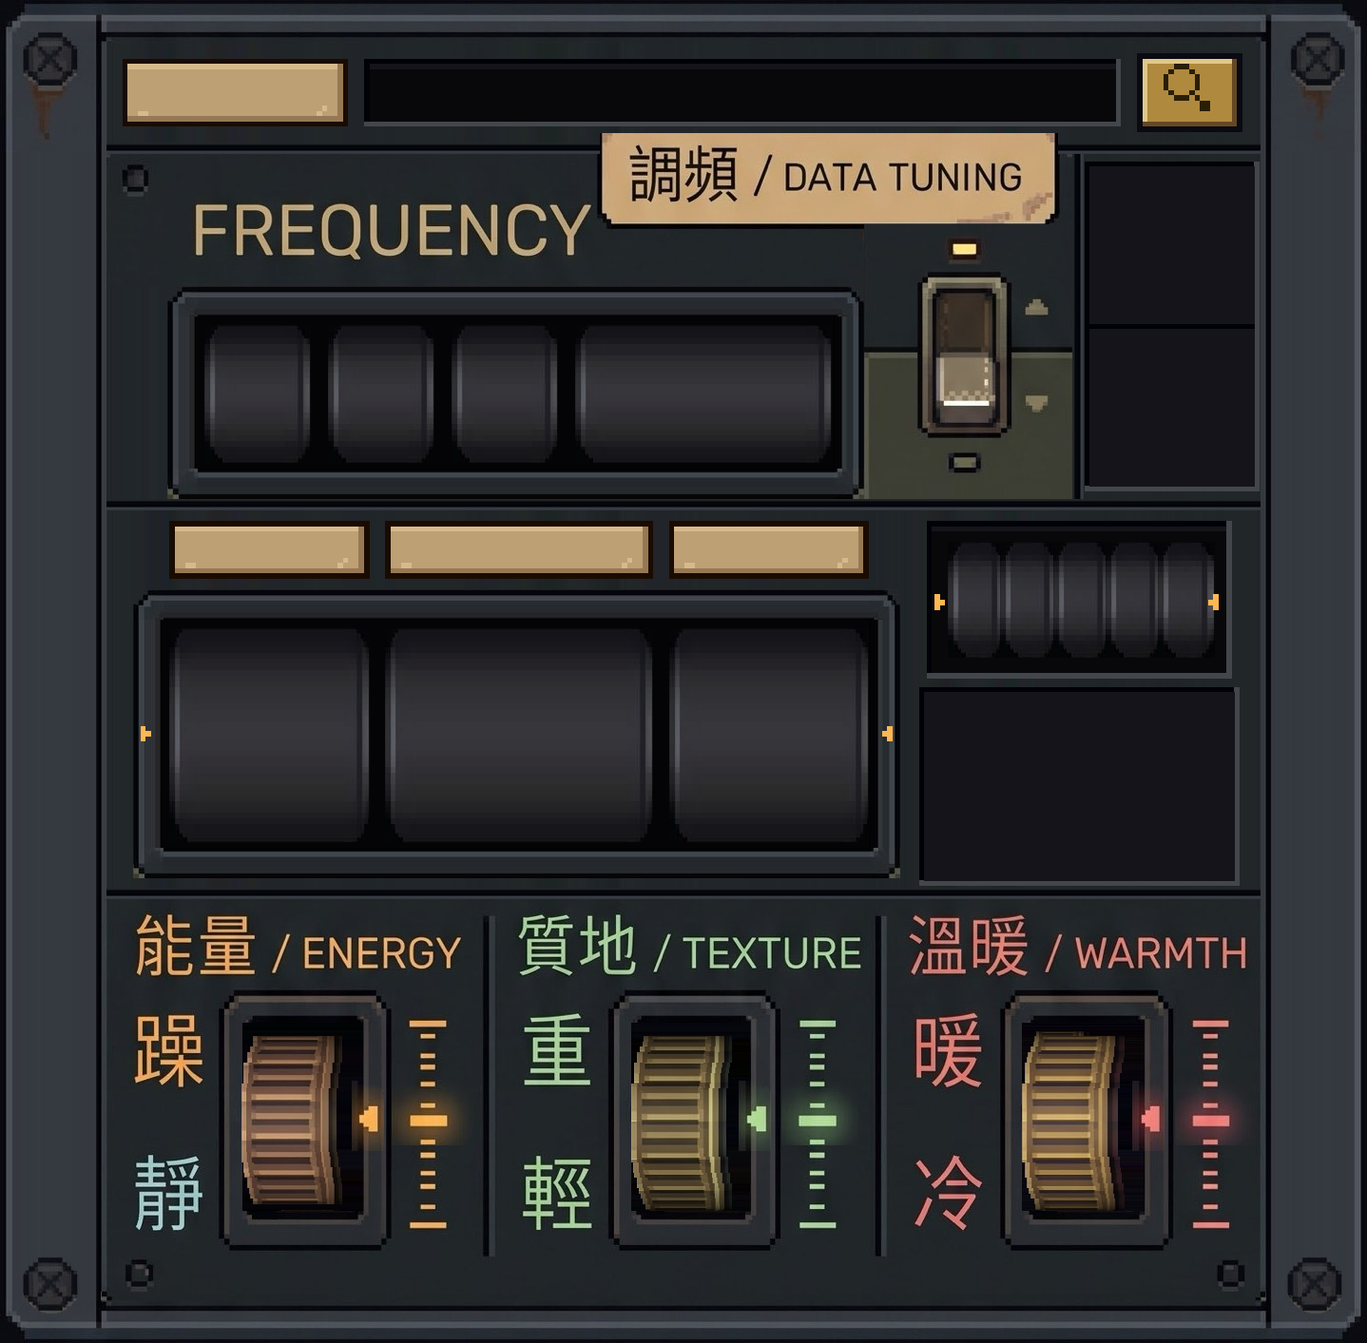
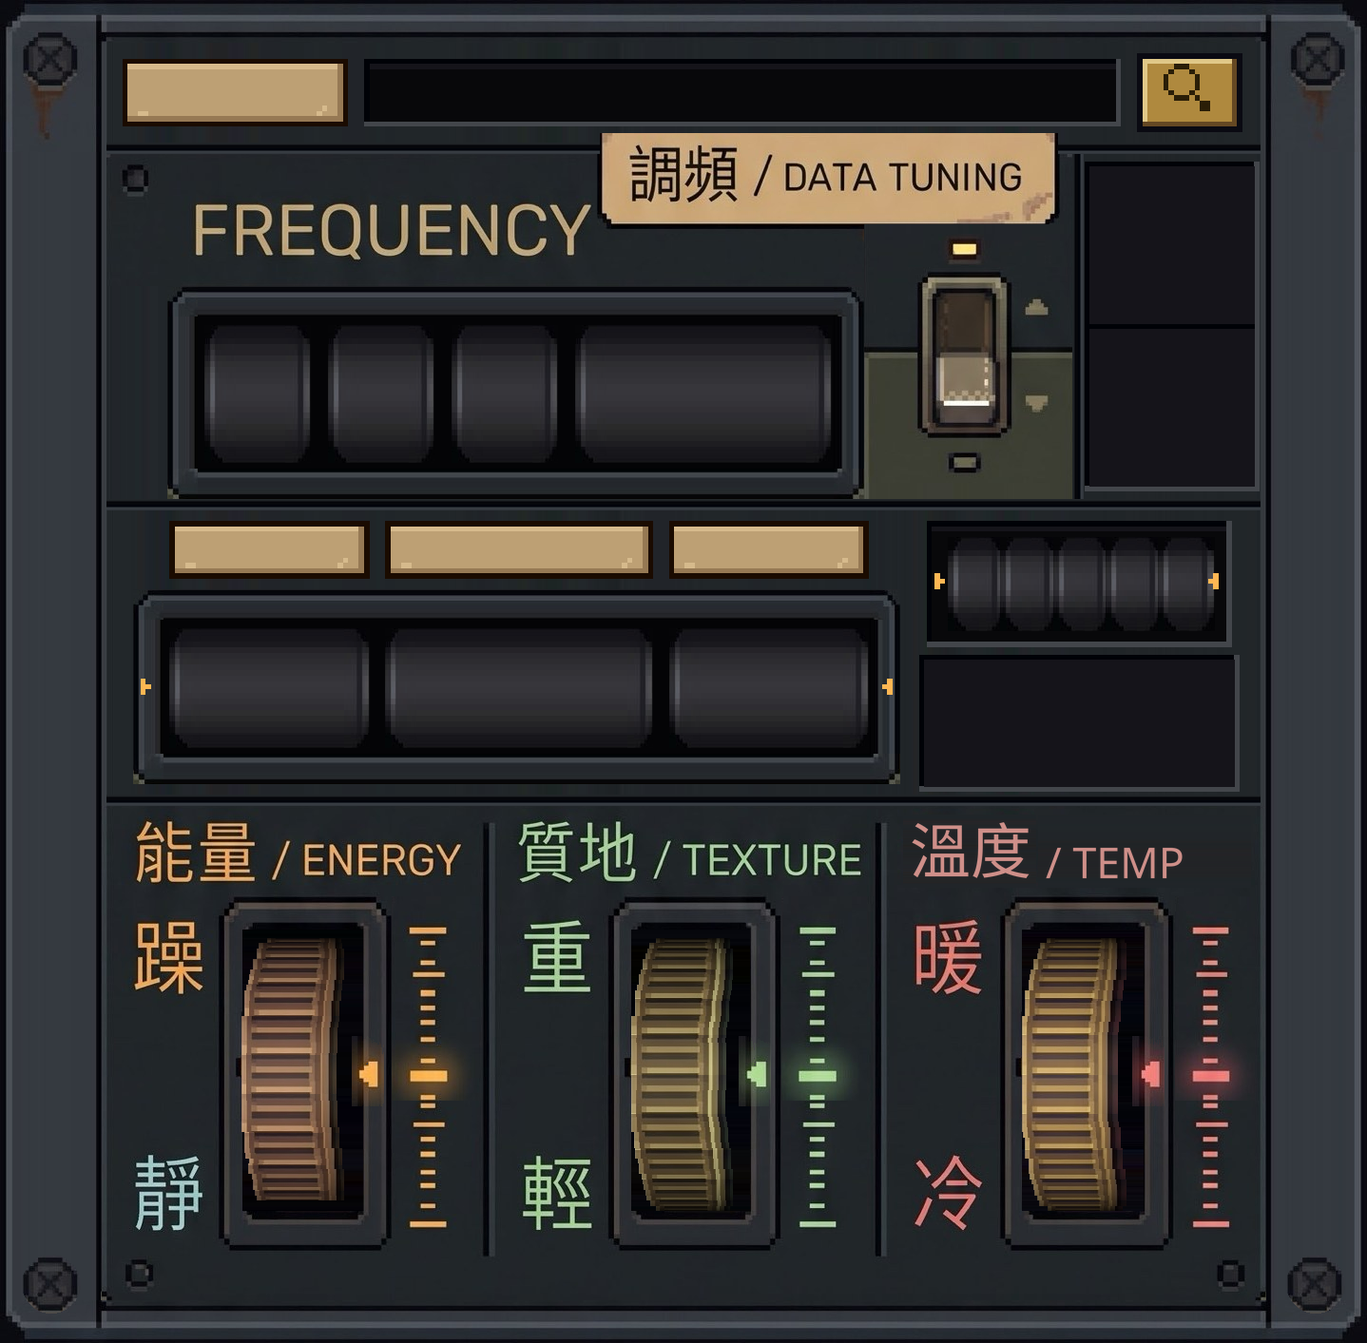
頻率光譜：下排轉輪往上加高、篩選排縮小、溫暖改溫度 / TEMP（v72）
Claude-Session: https://claude.ai/code/session_01UejPgVKn9qYya3Wx6LrffZ

Changed region(s): [[0.0918, 0.5294, 0.9179, 0.903], [0.6732, 0.436, 0.9179, 0.5294]]

diff --git a/dip-tune.js b/dip-tune.js
@@ -101,7 +101,7 @@
 
   // ── 畫面 ──────────────────────────────────────────────────────────
   // 面板圖片與輪廓表網址帶版本：正式站圖片快取 4 小時，換圖不換網址的話手機會拿舊圖套新版面（2026-11-06 店主實機：骰子跑位）。換任何 tune/ 圖就把這個數字加一
-  const AV = 71;
+  const AV = 72;
   const CSS = `
 .tune-app{--pix:'DotGothic16','Space Mono',monospace;position:relative;display:grid;grid-template-columns:1fr;grid-template-rows:minmax(200px,1fr) auto;width:100%;max-width:720px;margin:0 auto;height:var(--tvh,100dvh);padding:env(safe-area-inset-top,0px) env(safe-area-inset-right,0px) env(safe-area-inset-bottom,0px) env(safe-area-inset-left,0px);background:#0b0c10;color:#e9e2c8;font-family:var(--pix);font-size:11px;letter-spacing:.04em;overflow:hidden}
 /* 主畫面 App（standalone）：iOS 在狀態列下緣多一條毛玻璃，蓋住讀數與正在播放卡；只有這個模式再往下讓一截，瀏覽器不受影響 */
@@ -254,33 +254,33 @@
 .tune-fled{top:44.232%;width:2.364%;height:1.557%;background:url(tune/led-off.png?v=${AV}) 0 0/100% 100% no-repeat;image-rendering:pixelated;pointer-events:none}
 .tune-fled.on{background-image:url(tune/led-on.png?v=${AV})}
 .tune-fled[data-k="genre"]{left:18.498%}.tune-fled[data-k="grade"]{left:36.787%}.tune-fled[data-k="tier"]{left:55.076%}
-.tune-flt{top:38.783%;height:26.61%;cursor:ns-resize;touch-action:none;outline:0}
+.tune-flt{top:38.783%;height:19.604%;cursor:ns-resize;touch-action:none;outline:0}
 .tune-flt[data-k="genre"]{left:12.378%;width:14.673%}.tune-flt[data-k="grade"]{left:28.164%;width:19.611%}.tune-flt[data-k="tier"]{left:48.957%;width:14.604%}
 .tune-flt:focus-visible .fdrum{outline:2px solid #ffd166;outline-offset:-2px}
-.tune-flt .fdrum{position:absolute;left:0;right:0;top:29.8%;height:59.84%;overflow:hidden;pointer-events:none}
-.tune-flt .fdrum::after{content:"";position:absolute;inset:0;background:url(tune/drum-shade-225.png?v=${AV}) 0 0/100% 100% no-repeat;image-rendering:pixelated}
+.tune-flt .fdrum{position:absolute;left:0;right:0;top:40.793%;height:45.486%;overflow:hidden;pointer-events:none}
+.tune-flt .fdrum::after{content:"";position:absolute;inset:0;background:url(tune/drum-shade-126.png?v=${AV}) 0 0/100% 100% no-repeat;image-rendering:pixelated}
 .tune-flt .strip{will-change:transform}
 .tune-flt .strip.anim{transition:transform .22s cubic-bezier(.25,.9,.3,1.08)}
-.tune-flt span{display:block;height:5.563cqw;line-height:5.563cqw;text-align:center;font-family:var(--pix);font-size:3.27cqw;color:#8d9478;white-space:nowrap}
+.tune-flt span{display:block;height:4.8cqw;line-height:4.8cqw;text-align:center;font-family:var(--pix);font-size:3.27cqw;color:#8d9478;white-space:nowrap}
 .tune-flt svg.st{display:inline-block;width:.78em;height:.78em;margin:0 .04em;vertical-align:-.04em}
 .tune-flt span .sr{position:absolute;width:1px;height:1px;overflow:hidden;clip:rect(0 0 0 0)}
 .tune-flt span.sel{color:#ffd34d}.tune-flt span.sel.all{color:#e9e2c8}
 /* 符合張數：水表式五顆數字滾輪（2026-11-07 店主：不要中文，數字切換時滾輪快速轉到下一個數字）；滾筒與指標畫在 panel-all.png 上 */
-.tune-lcd{left:68.15%;top:39.207%;width:21.558%;height:10.899%;pointer-events:none}
-.tune-odo{position:absolute;top:10.395%;height:79.218%;width:16.128%;overflow:hidden}
+.tune-lcd{left:68.15%;top:39.207%;width:21.558%;height:8.563%;pointer-events:none}
+.tune-odo{position:absolute;top:9.097%;height:81.817%;width:16.128%;overflow:hidden}
 .tune-odo:nth-child(1){left:5.483%}.tune-odo:nth-child(2){left:23.226%}.tune-odo:nth-child(3){left:41.29%;width:15.81%}.tune-odo:nth-child(4){left:59.031%}.tune-odo:nth-child(5){left:76.774%}
-.tune-odo::after{content:"";position:absolute;inset:0;background:url(tune/drum-shade-122.png?v=${AV}) 0 0/100% 100% no-repeat;image-rendering:pixelated}
+.tune-odo::after{content:"";position:absolute;inset:0;background:url(tune/drum-shade-99.png?v=${AV}) 0 0/100% 100% no-repeat;image-rendering:pixelated}
 .tune-odo .strip{will-change:transform}
-.tune-odo span{display:block;height:5.4cqw;line-height:5.4cqw;text-align:center;font-family:var(--pix);font-size:4.6cqw;color:#e9e2c8}
+.tune-odo span{display:block;height:5.2cqw;line-height:5.2cqw;text-align:center;font-family:var(--pix);font-size:4.4cqw;color:#e9e2c8}
 .tune-lcd.zero span{color:#ff7a6b}
-.tune-all{left:67.803%;top:51.734%;width:22.323%;height:13.659%;background-image:url(tune/key-all.png?v=${AV});color:#8d9478;font-size:3.6cqw;line-height:1.15;text-align:center;padding-top:.6cqw}
+.tune-all{left:67.803%;top:49.328%;width:22.323%;height:9.059%;background-image:url(tune/key-all.png?v=${AV});color:#8d9478;font-size:3.6cqw;line-height:1.15;text-align:center;padding-top:.6cqw}
 .tune-all small{display:block;font-size:2.2cqw;letter-spacing:.08em}
 .tune-all.on{color:#e9e2c8}
-/* 轉輪：畫面縮成一半高，點擊範圍放大到整欄（含名牌與刻度），手指好抓 */
-.tune-wheel{background:transparent;overflow:hidden;top:74.452%;height:18.967%;pointer-events:none}
+/* 轉輪：點擊範圍放大到整欄（含名牌與刻度），手指好抓。2026-11-07 店主：輪子往上擴充、篩選排縮小（輪子 190 → 288 列） */
+.tune-wheel{background:transparent;overflow:hidden;top:67.516%;height:25.902%;pointer-events:none}
 .tune-wheel canvas{display:block;width:100%;height:100%;image-rendering:pixelated}
 .tune-wheel[data-axis="x"]{left:15.577%;width:12.656%}.tune-wheel[data-axis="y"]{left:44.784%;width:12.239%}.tune-wheel[data-axis="z"]{left:73.713%;width:12.239%}
-.tune-wcol{top:73.319%;height:20.807%;cursor:ns-resize;touch-action:none;background:transparent}
+.tune-wcol{top:66.171%;height:27.955%;cursor:ns-resize;touch-action:none;background:transparent}
 .tune-wcol[data-axis="x"]{left:7.789%;width:27.538%}.tune-wcol[data-axis="y"]{left:36.231%;width:27.747%}.tune-wcol[data-axis="z"]{left:64.882%;width:27.33%}
 .tune-wcol:focus-visible{outline:2px solid #ffd166;outline-offset:-2px}
 /* 搜尋列：名牌、液晶、黃銅鍵畫在面板上，文字、輸入框、按鍵疊 HTML */
@@ -314,7 +314,7 @@ html.tune-inapp-lock body{padding-top:120px}
 <div class="tune-app" id="tuneApp">
   <div class="tune-stage" id="tuneStage"><canvas id="tuneGl"></canvas>
     <div class="tune-hud">
-      <div class="tune-readout" id="tuneReadout" title="能量 / 質地 / 色溫"><span style="--c:${AX.x}"><b>-.--</b></span><span style="--c:${AX.y}"><b>-.--</b></span><span style="--c:${AX.z}"><b>-.--</b></span></div>
+      <div class="tune-readout" id="tuneReadout" title="能量 / 質地 / 溫度"><span style="--c:${AX.x}"><b>-.--</b></span><span style="--c:${AX.y}"><b>-.--</b></span><span style="--c:${AX.z}"><b>-.--</b></span></div>
       <button class="tune-spk" id="tuneSpk" type="button" aria-pressed="true" aria-label="聲音">${SPK}</button>
       <button class="tune-spk tune-hbtn" id="tuneHoloBtn" type="button" aria-pressed="true" aria-label="懸浮封面" title="懸浮封面">${HOLO}</button>
       <button class="tune-back" id="tuneBack" type="button" aria-label="回找一張來聽" title="找一張來聽">↩</button>
@@ -356,7 +356,7 @@ html.tune-inapp-lock body{padding-top:120px}
     <div class="abs tune-wheel" data-axis="z"><canvas></canvas></div>
     <div class="abs tune-wcol" data-axis="x" role="slider" tabindex="0" aria-label="能量" aria-valuemin="0" aria-valuemax="100" aria-valuenow="25"></div>
     <div class="abs tune-wcol" data-axis="y" role="slider" tabindex="0" aria-label="質地" aria-valuemin="0" aria-valuemax="100" aria-valuenow="50"></div>
-    <div class="abs tune-wcol" data-axis="z" role="slider" tabindex="0" aria-label="色溫" aria-valuemin="0" aria-valuemax="100" aria-valuenow="50"></div>
+    <div class="abs tune-wcol" data-axis="z" role="slider" tabindex="0" aria-label="溫度" aria-valuemin="0" aria-valuemax="100" aria-valuenow="50"></div>
   </div></div>
 </div>`;
   }
@@ -1463,7 +1463,7 @@ html.tune-inapp-lock body{padding-top:120px}
         at(pos, false); const w = wrap(Math.round(pos)); if (w !== drag.last) { drag.last = w; tick(); } });
       hit.addEventListener('pointerup', e => { if (!drag) return; const d = drag; drag = null;
         if (d.moved) { setFilter(k, wrap(Math.round(P))); return; }
-        const r = hit.getBoundingClientRect(); tick(); setFilter(k, FILT[k] + ((e.clientY - r.top) / r.height < 0.598 ? -1 : 1)); });
+        const r = hit.getBoundingClientRect(); tick(); setFilter(k, FILT[k] + ((e.clientY - r.top) / r.height < 0.635 ? -1 : 1)); });
       hit.addEventListener('pointercancel', () => { if (!drag) return; drag = null; show(FILT[k], true); });
       hit.addEventListener('wheel', e => { e.preventDefault(); const now = performance.now(); if (!e.deltaY || now - wheelT < 120) return; wheelT = now; tick(); setFilter(k, FILT[k] + Math.sign(e.deltaY)); }, { passive: false });
       hit.addEventListener('keydown', e => { let to = null;

diff --git a/index.html b/index.html
@@ -1072,7 +1072,7 @@
 <script src="dip-player.js?v=57"></script>
 <script src="dip-draw-anim.js?v=5"></script>
 <script src="dip-genre-tree.js?v=5"></script>
-<script src="dip-tune.js?v=71"></script>
+<script src="dip-tune.js?v=72"></script>
 <script src="dip-artist-intro.js?v=2"></script>
 <script type="module">
   import { initializeApp } from "https://www.gstatic.com/firebasejs/10.12.0/firebase-app.js";

diff --git a/scripts/tune-panel-v2/wheels_half.py b/scripts/tune-panel-v2/wheels_half.py
@@ -272,16 +272,16 @@ lcd(d, y_search, LA0, LB0, LA1, LB1)
 
 # ── 輪子區：上半＝篩選排（等級｜分級｜符合），下半＝砍半的三顆輪子 ─────────────────
 B_Y0 = y_wh                     # 678
-B_H = 256
+B_H = 158                       # 2026-11-07 店主：輪子往上擴充、篩選排縮小（256 → 158，輪子模組多 98 列）
 B_Y1 = B_Y0 + B_H               # 934
 y_g3 = B_Y1                     # 934..946 新增的橫溝
 y_wm = y_g3 + GROOVE            # 946：輪子模組（原稿 45..735 砍掉 268 列）
 CUTN = WH_H - B_H - GROOVE      # 422
 REMOVE = WH_H - CUTN            # 268
 # 分帶砍列：每一條直帶各自從「沒東西的地方」抽掉 268 列，讓標籤、外殼、刻度尺都保持完整
-LABEL_CUT = [(250, 518)]                                   # 躁／靜 兩字之間的素面
-HOUSING_CUT = [(279, 547)]                                 # 外殼直邊中段（輪子本身會重畫）
-LADDER_CUT = [(140, 160), (234, 350), (440, 551), (645, 666)]  # 刻度尺：上下各抽一段，中間亮刻度留著
+LABEL_CUT = [(330, 500)]                                   # 躁／靜 兩字之間的素面
+HOUSING_CUT = [(328, 498)]                                 # 外殼直邊中段（輪子本身會重畫）
+LADDER_CUT = [(140, 160), (234, 299), (440, 505), (645, 665)]   # 中線以上抽 85、以下抽 85  # 刻度尺：上下各抽一段，中間亮刻度留著
 MODS = [  # (模組左, 外殼左, 刻度帶左, 模組右, 輪子元素左, 外殼內左, 外殼內右, 軸)
     (112, 230, 412, 508, 224, 255, 382, 'x'),
     (521, 640, 822, 920, 644, 664, 789, 'y'),
@@ -298,9 +298,11 @@ for x0, x1, cuts in bands:
 # 新座標：wm 第 r 列 ↔ 原稿第 r+45 列（砍點以上），以下各帶都上移 268
 def wm_y(src_y): return src_y - WH_Y0                        # 砍點以上的原稿列 → wm 列
 HOUSING_TOP = 141; HOUSING_BOT = 683 - REMOVE                 # 原稿外殼 141..683 → 141..415（原稿列號系）
+PTR_UP = sum(b - a for a, b in LADDER_CUT if b <= 412)              # 刻度尺中線以上抽掉的列數＝指針上移量
+CV_H = HOUSING_BOT + 4 - 151                                  # 輪子 canvas 高（原 268）
 CENTER = (HOUSING_TOP + HOUSING_BOT) // 2                     # 278：刻度尺中央亮刻度也剛好落在這
-WHEEL_H = 190                                                 # 原稿輪子 441 列 → 190 列（整格取樣）
-CURVE = 0.5                                                   # 輪廓弧度收斂比例
+WHEEL_H = 288                                                 # 原稿輪子 441 列 → 190 列（整格取樣）
+CURVE = 0.65                                                  # 輪廓弧度收斂比例
 HALF_SPANS = {}
 for m0, h0, l0, m1, ex0, in0, in1, ax in MODS:
     # 外殼內清空（實作時輪子是 canvas 畫在上面，底圖不留舊輪子）
@@ -309,9 +311,9 @@ for m0, h0, l0, m1, ex0, in0, in1, ax in MODS:
     # ◀ 指針：原稿 384..434 列那塊整塊搬到新中心（刻度尺上移 136 列，指針跟著上移 136）
     # 只搬比底色亮的像素（指針本體＋光暈），光暈邊緣才不會切出一塊方框
     ax0, ax1 = in1 - 12, in1 + 22
-    patch = WHA[372:446, ax0:ax1].astype(int); base = wm[wm_y(372 - 136):wm_y(446 - 136), ax0:ax1].astype(int)
+    patch = WHA[372:446, ax0:ax1].astype(int); base = wm[wm_y(372 - PTR_UP):wm_y(446 - PTR_UP), ax0:ax1].astype(int)
     m = (patch.sum(-1) > base.sum(-1) + 9)[..., None]
-    wm[wm_y(372 - 136):wm_y(446 - 136), ax0:ax1] = np.where(m, patch, base).astype(np.uint8)
+    wm[wm_y(372 - PTR_UP):wm_y(446 - PTR_UP), ax0:ax1] = np.where(m, patch, base).astype(np.uint8)
     # 半高輪子：輪廓（wheel-spans）整格取樣成 190 列，貼圖照 dip-tune.js 的圓柱投影畫
     sp = SPANS[ax]; rows = [list(r) if r else None for r in sp['rows']]
     # 原稿輪廓在 ◀ 指針那幾列右緣多抓了 10px（指針光暈），先壓回去
@@ -342,8 +344,8 @@ for m0, h0, l0, m1, ex0, in0, in1, ax in MODS:
         if c > .92:
             a = (c - .92) * 1.2; line = line * (1 - a) + np.array([255, 240, 200]) * a
         wm[wm_y(wy0 + j), ex0 + r[0]:ex0 + r[1]] = line.clip(0, 255).astype(np.uint8)
-    half_spans = {'w': sp['w'], 'h': 268, 'ref': 536, 'y0': wy0 - 151, 'y1': wy0 - 151 + WHEEL_H, 'rows': half_rows}
-    mark(f'wheel.{ax}', ex0, y_wm + wm_y(151), ex0 + sp['w'], y_wm + wm_y(151) + 268)
+    half_spans = {'w': sp['w'], 'h': CV_H, 'ref': 536, 'y0': wy0 - 151, 'y1': wy0 - 151 + WHEEL_H, 'rows': half_rows}
+    mark(f'wheel.{ax}', ex0, y_wm + wm_y(151), ex0 + sp['w'], y_wm + wm_y(151) + CV_H)
     LAYOUT.pop(f'wheel.{ax}.rows'); HALF_SPANS[ax] = half_spans
 out.paste(Image.fromarray(wm), (0, y_wm))
 hgroove(out, y_g3)
@@ -401,6 +403,8 @@ led = FQ0.crop((1190, 234, 1232, 266))
 mark('match.led', c1 - 14 - led.width, TITLE_Y + 8, c1 - 14, TITLE_Y + 8 + led.height)
 out.paste(led, (c1 - 14 - led.width, TITLE_Y + 8))
 
+# 篩選排縮短後（2026-11-07），上面那排的示意零件會畫超過橫溝：輪子模組最後再鋪一次蓋回去
+out.paste(Image.fromarray(wm), (0, y_wm)); hgroove(out, y_g3)
 # ── 側軌、底端螺絲（最後鋪，同 build-tune-panel.py）────────────────────────
 rail_row_l, rail_row_r = WH.crop((0, 400, L_RAIL, 401)), WH.crop((R_RAIL, 400, W, 401))
 for y in range(160, H - BOTTOM):

diff --git a/scripts/tune-panel-v2/panel.py b/scripts/tune-panel-v2/panel.py
@@ -119,8 +119,9 @@ SEC_ROWS = list(range(WH_LAB0, WIN_I0)) + cell_keep(WIN_I1 - WIN_I0, (WIN_I1 - W
 NH = len(SEC_ROWS)                             # 450
 y_wh = H - BOTTOM - NH                         # 918
 y_g3 = y_wh - GROOVE                           # 906
-# 評審合併版：輪子模組改用 D1 的分帶砍列（946–1368），篩選列延長到 537–934
-y_wh = 946; y_g3 = 934
+# 評審合併版：輪子模組改用 D1 的分帶砍列，篩選列在上面。
+# 2026-11-07 店主：「讓最下排的旋鈕往上擴充，上面的旋鈕縮小」——輪子模組 946–1368 → 848–1368，篩選列 537–934 → 537–836
+y_wh = 848; y_g3 = 836
 
 out = Image.new('RGB', (W, H))
 d = ImageDraw.Draw(out)
@@ -400,7 +401,7 @@ key_draw.save(os.path.join(SPR, 'key-draw.png')); key_rand.save(os.path.join(SPR
 hgroove(y_g2); hgroove(y_g3)
 gf = Grid(INNER_X0, y_flt)
 FL_DRUMS_CELLS = [('genre', 12, 50), ('grade', 53, 104), ('tier', 107, 145)]   # 各滾筒 x 範圍（格）
-FW_A0, FW_A1, FW_B0, FW_B1 = 5, 151, 15, 70                                  # 窗框（格）
+FW_A0, FW_A1, FW_B0, FW_B1 = 5, 151, 15, 52                                  # 窗框（格）
 PL_B0, PL_B1 = 2, 13                                                        # 名牌（格）
 fw = gf.rect(FW_A0, FW_B0, FW_A1, FW_B1)
 out.paste(nine(WIN_SRC, fw[2] - fw[0], fw[3] - fw[1]), fw[:2])
@@ -440,10 +441,10 @@ for key, a0, a1 in FL_DRUMS_CELLS:
     R_LEDS[key] = (lx, ly, lx + LED_ON.width, ly + LED_ON.height)
 # 右塊：液晶計數器＋全部鍵
 RB_A0, RB_A1 = 156, 214
-lcd(gf, RB_A0, PL_B0, RB_A1, 32)
-R_LCD = gf.rect(RB_A0 + 1, PL_B0 + 1, RB_A1 - 1, 31)
+lcd(gf, RB_A0, PL_B0, RB_A1, 26)
+R_LCD = gf.rect(RB_A0 + 1, PL_B0 + 1, RB_A1 - 1, 25)
 # 2026-11-07 店主：符合張數不要中文，改成水表那種數字滾輪——五顆數字滾筒（同篩選滾筒的畫法），左右各一個琥珀色指標對準中線
-ODO_N, ODO_W, ODO_GAP, ODO_A0, ODO_B0, ODO_B1 = 5, 9, 1, 160, 6, 28
+ODO_N, ODO_W, ODO_GAP, ODO_A0, ODO_B0, ODO_B1 = 5, 9, 1, 160, 5, 23
 ODO = []
 for i in range(ODO_N):
     a0 = ODO_A0 + i * (ODO_W + ODO_GAP)
@@ -457,7 +458,7 @@ for a, b0, b1 in ((ODO_A0 - 2.5, om, om + 3), (ODO_A0 - 1.5, om + 1, om + 2)):
 oa1 = ODO_A0 + ODO_N * (ODO_W + ODO_GAP) - ODO_GAP
 for a, b0, b1 in ((oa1 + 1.5, om, om + 3), (oa1 + 0.5, om + 1, om + 2)):
     gf.box(a, b0, a + 1, b1, TICK)
-ALL = gf.rect(RB_A0, 35, RB_A1, FW_B1)
+ALL = gf.rect(RB_A0, 29, RB_A1, FW_B1)
 recess(ALL[0], ALL[1], ALL[2], ALL[3])
 key_all = Image.new('RGB', (ALL[2] - ALL[0], ALL[3] - ALL[1]))
 gka = Grid(0, 0, key_all)
@@ -621,7 +622,36 @@ for x0, x1 in ((0, L_RAIL), (R_RAIL, W)):
 for cxx in (54, W - 54):
     out.paste(SCREW, (cxx - 35, H - 62 - 35), SCREW)
 
-out.paste(Image.open(os.path.join(HERE, 'panel-only.png')).convert('RGB').crop((0, 934, W, H)), (0, 934))
+out.paste(Image.open(os.path.join(HERE, 'panel-only.png')).convert('RGB').crop((0, y_g3, W, H)), (0, y_g3))
+
+# 色溫輪名牌「溫暖 / WARMTH」→「溫度 / TEMP」（2026-11-07 店主：溫度的英文太長就用縮寫）。
+# 原稿字是 Noto Sans TC／Noto Sans Regular 一路的黑體：原字清掉，用同字型（fonts/ 裡只含這幾個字的子集）4 倍超取樣畫回。
+def relabel_temp(img):
+    dy = y_wh - 946                                   # 原稿量到的座標是舊版（輪子模組從 946 起）
+    a = np.asarray(img).astype(int)
+    FG = (208, 144, 138)
+    for x0, x1 in ((950, 1090), (1092, 1316)):        # 清掉「溫暖」與「/ WARMTH」，每列用該列非字的中位色補
+        for y in range(955 + dy, 1032 + dy):
+            row = a[y, x0:x1]; bg = row[(row[:, 0] - row[:, 1]) < 15]
+            if len(bg):
+                a[y, x0:x1] = np.median(bg, axis=0)
+    im = Image.fromarray(a.astype('uint8'))
+    def draw(text, font, left, top=None, bottom=None):
+        SS = 4
+        f = ImageFont.truetype(os.path.join(SRC_DIR, 'fonts', font), font_size[font] * SS)
+        bb = f.getbbox(text)
+        L = Image.new('L', (bb[2] - bb[0] + 8 * SS, bb[3] - bb[1] + 8 * SS), 0)
+        ImageDraw.Draw(L).text((4 * SS - bb[0], 4 * SS - bb[1]), text, font=f, fill=255)
+        L = L.resize((L.width // SS, L.height // SS), Image.LANCZOS)
+        y = top - 4 if top is not None else bottom - (L.height - 4)
+        im.paste(Image.new('RGB', L.size, FG), (left - 4, y), L)
+    font_size = {'noto-sans-tc-400-subset.ttf': 64, 'noto-sans-400-subset.ttf': 45}
+    draw('溫度', 'noto-sans-tc-400-subset.ttf', 957, top=963 + dy)
+    draw('/ TEMP', 'noto-sans-400-subset.ttf', 1100, bottom=1022 + dy)
+    return im
+
+
+out.paste(relabel_temp(out), (0, 0))              # 原地改（各 Grid 綁著 out 這個物件）
 bg = out.copy()                                 # 實作用底圖（無文字、無活件）
 bg.save(os.path.join(HERE, 'panel-bg.png'), optimize=True); bg.save('tune/panel-all.png', optimize=True)
 

diff --git a/PROJECT_MEMORY.md b/PROJECT_MEMORY.md
@@ -1,5 +1,14 @@
 # dip vinyl 專案備忘錄
 
+### 2026-11-07｜dip-vinyl-shop｜頻率光譜：下排轉輪往上加高、篩選排縮小、「溫暖 / WARMTH」改「溫度 / TEMP」（v72）
+
+- **店主 11-07（截圖紅框）**：「讓最下排的旋鈕往上擴充，上面的旋鈕縮小；溫暖 warmth 改成溫度（英文太長就用縮寫）。」
+- **版面**：輪子模組 946–1368 → 848–1368（`wheels_half.py` 的 `B_H` 256→158；分帶砍列改成標籤 330–500、外殼 328–498、刻度尺中線上下各抽 85 列；輪子 190→288 列、弧度 `CURVE` 0.5→0.65；指針上移量改由刻度尺砍列推算 `PTR_UP`；canvas 高 `CV_H` 366）。篩選排 537–934 → 537–836（`panel.py`：篩選窗 `FW_B1` 70→52、篩選滾筒 225→126 列、液晶 2–26、水表滾輪 5–23、全部鍵 29–52）。舊 D1 示意零件會畫進輪子區，`wheels_half.py` 最後再鋪一次輪子模組蓋回。
+- **名牌**：原字是 Noto Sans TC／Noto Sans Regular 一路，清掉後用同字型子集（`scripts/tune-panel-v2/fonts/`，Google Fonts 只含用到的字，OFL）4 倍超取樣畫「溫度 / TEMP」；讀數提示與輪子 `aria-label` 一併改「溫度」。
+- **程式**：`dip-tune.js` 篩選滾筒熱區 26.61%→19.604%、字條列高 5.563→4.8cqw、點擊分界 0.598→0.635；水表與全部鍵、輪子 canvas（top 67.516%／高 25.902%）、整欄熱區（66.171%／27.955%）重定位；明暗罩換 `drum-shade-126`／`drum-shade-99`（刪 225、122）；`AV` 72。
+- **驗證**：Playwright iPhone 13 直放＋橫放截圖；篩選、水表數字都對準中線（0.0px）；拖能量輪 49.7→61.7；點類別下半→搖滾、分級上半→繞到普通（1979 張）；無頁面錯誤。
+- **主要檔案**：`dip-tune.js`、`index.html`（v72）、`scripts/tune-panel-v2/{panel.py,wheels_half.py,fonts/}`、`tune/{panel-all,key-all,drum-shade-126,drum-shade-99}.png`、`tune/wheel-spans.json`。
+
 ### 2026-11-07｜dip-vinyl-shop｜按串流去聽歌、切回網頁串流被停（第二次）：真正元凶是 Tawk.to 客服小工具的 AudioContext
 
 - **店主 11-07**：「按串流連結去聽歌，換回網頁時串流就停了——情況一模一樣沒有改善」（11-05 PR #388 只關自家音訊，無效）。
